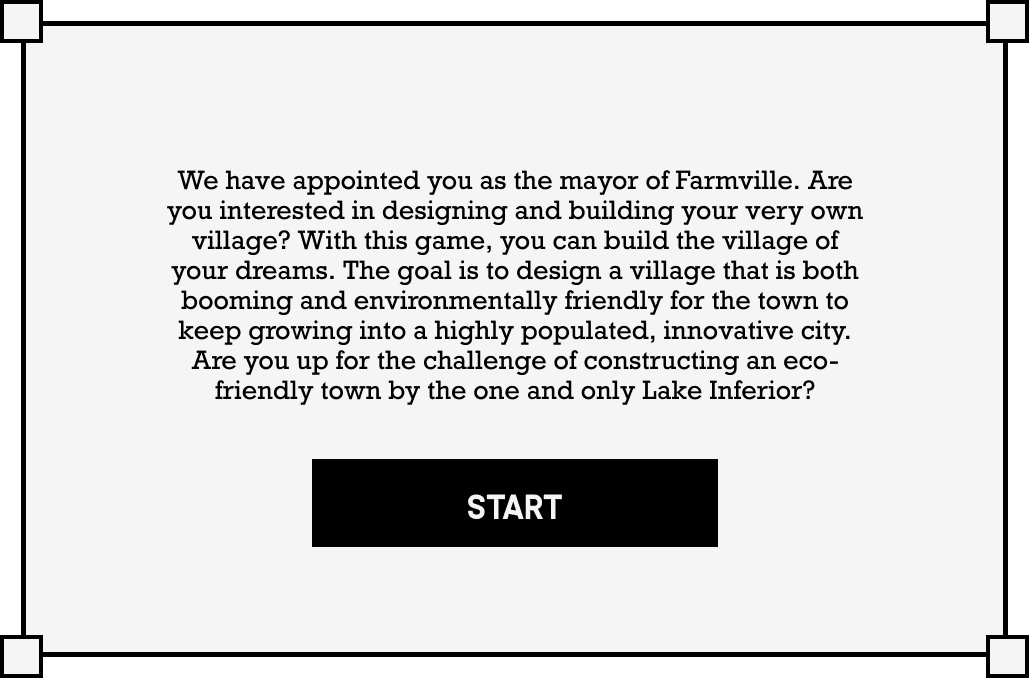
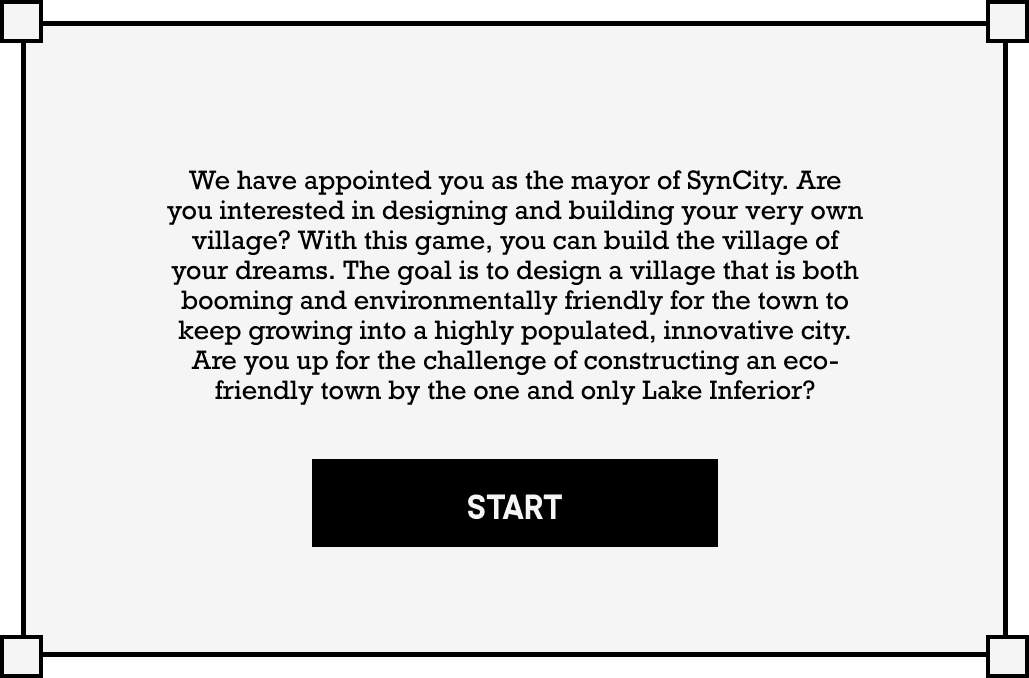
Change Farmville to SynCity

Changed region(s): [[0.1555, 0.2478, 0.8397, 0.3097]]

diff --git a/Assets/SequentialLogic.cs b/Assets/SequentialLogic.cs
@@ -43,18 +43,18 @@ class EndingPrompt
         c.DestroyAllPrompts();
         if(c.sprite.choiceCounter <= 1){
             c.reg.InitChoices("Congratulations on making sustainable choices that have protected the environment " +
-            "and created a thriving community in Farmville. Citizens are " +
+            "and created a thriving community in SynCity. Citizens are " +
             "excited to work with you on future endeavors. You can play again to see if you can build " +
             "an even more sustainable city.", NextAction);
         }
         else if(c.sprite.choiceCounter == 2 ){
             c.reg.InitChoices("Your sustainable choices were good enough to maintain the current population and overall satisfaction of " +
-            "Farmville. Citizens are feeling mediocre about you for another term ands the approval rate has " + 
+            "SynCity. Citizens are feeling mediocre about you for another term ands the approval rate has " + 
             "decreased compared to your original rating. If you want a better outcome, try again! ", NextAction);
         }
         else if(c.sprite.choiceCounter >= 3){
-            c.reg.InitChoices("Unfortunately, Farmville have been reduced by half since you came to office." +
-            "You have scared everyone away, and your satisfaction rates have been decreasing ever since. You were not able to keep the mayor’s seat as the citizens of Farmville were furious. Try Again! ", NextAction);
+            c.reg.InitChoices("Unfortunately, SynCity have been reduced by half since you came to office." +
+            "You have scared everyone away, and your satisfaction rates have been decreasing ever since. You were not able to keep the mayor’s seat as the citizens of SynCity were furious. Try Again! ", NextAction);
         }
             
     }
@@ -172,7 +172,7 @@ class TestDescision5 //Green Infrastructure/Conservation Efforts
     { return "Decision 5: Conservation Efforts"; }
 
     string GetPrompt()
-    { return "The citizens of Farmville are educated about climate change and want to make the city greener and " +
+    { return "The citizens of SynCity are educated about climate change and want to make the city greener and " +
         "even more sustainable. What will you do with the forest on the left hill? "; }
 
     string[] GetChoiceStrs()
@@ -273,7 +273,7 @@ class TestDescision4 // Water Energy
         return "Decision 4: Water Energy Sources"; }
 
     string GetPrompt()
-    { return "The population of Farmville keeps growing! The government is offering a generous grant to " +
+    { return "The population of SynCity keeps growing! The government is offering a generous grant to " +
     "help you invest in an energy source. How will you invest in the city? "; }
 
     string[] GetChoiceStrs()
@@ -408,10 +408,10 @@ class TestDescision3 // Water Demand
     { return "Decision 3: Water Demand"; }
 
     string GetPrompt()
-    { return "OH NO! Farmville has had an insane drought due to global warming and now citizens have less access to clean water. What will you do?"; }
+    { return "OH NO! SynCity has had an insane drought due to global warming and now citizens have less access to clean water. What will you do?"; }
 
     string[] GetChoiceStrs()
-    { return new string[] { "Building a new water treatment plant ", "Expanding the water supply infrastructure within Farmville", "Boiler efficiency improvement" }; }
+    { return new string[] { "Building a new water treatment plant ", "Expanding the water supply infrastructure within SynCity", "Boiler efficiency improvement" }; }
 
     UnityAction[] GetActions()
     { return new UnityAction[] { GoodChoice, OkChoice, BadChoice }; }
@@ -437,7 +437,7 @@ class Descision2Good
     public void InitChoices()
     {
         c.DestroyAllPrompts();
-        c.reg.InitChoices("Great choice to keep Farmville environmentally friendly. Oil " +
+        c.reg.InitChoices("Great choice to keep SynCity environmentally friendly. Oil " +
             "will eventually run out within decades, and investing in green energy creates a sustainable future!", NextAction, 1);
     }
 }
@@ -507,11 +507,11 @@ class TestDescision2 //Investing
 
     string GetPrompt()
     { return "Corporate executive John McJohnson has approached you with the opportunity " +
-        "to construct an oil/coal plant in Farmville for a generous amount of money. What will you do?"; }
+        "to construct an oil/coal plant in SynCity for a generous amount of money. What will you do?"; }
 
     string[] GetChoiceStrs()
     { return new string[] { "Reject his request and instead invest in green energy using government grants.", "Open a coal/oil plant, " +
-    "as John offered to invest in Farmville " }; }
+    "as John offered to invest in SynCity " }; }
 
     UnityAction[] GetActions()
     { return new UnityAction[] { GoodChoice, BadChoice }; }
@@ -600,7 +600,7 @@ class TestDescision1 //Farming
     { return "Decision 1: Farming"; }
 
     string GetPrompt()
-    { return " The residents of Farmville are hungry and demand food. How will you start off your farming adventure?"; }
+    { return " The residents of SynCity are hungry and demand food. How will you start off your farming adventure?"; }
 
     string[] GetChoiceStrs()
     { return new string[] { "Reduce food waste and compost to increase crop production", "Increase farming production using more fertilizers" }; }
@@ -628,7 +628,7 @@ class StartingPrompt
     public void InitChoices()
     {
         c.DestroyAllPrompts();
-        c.reg.InitChoices("Welcome to Farmville!" , NextAction);
+        c.reg.InitChoices("Welcome to SynCity!" , NextAction);
     }
 }
 
